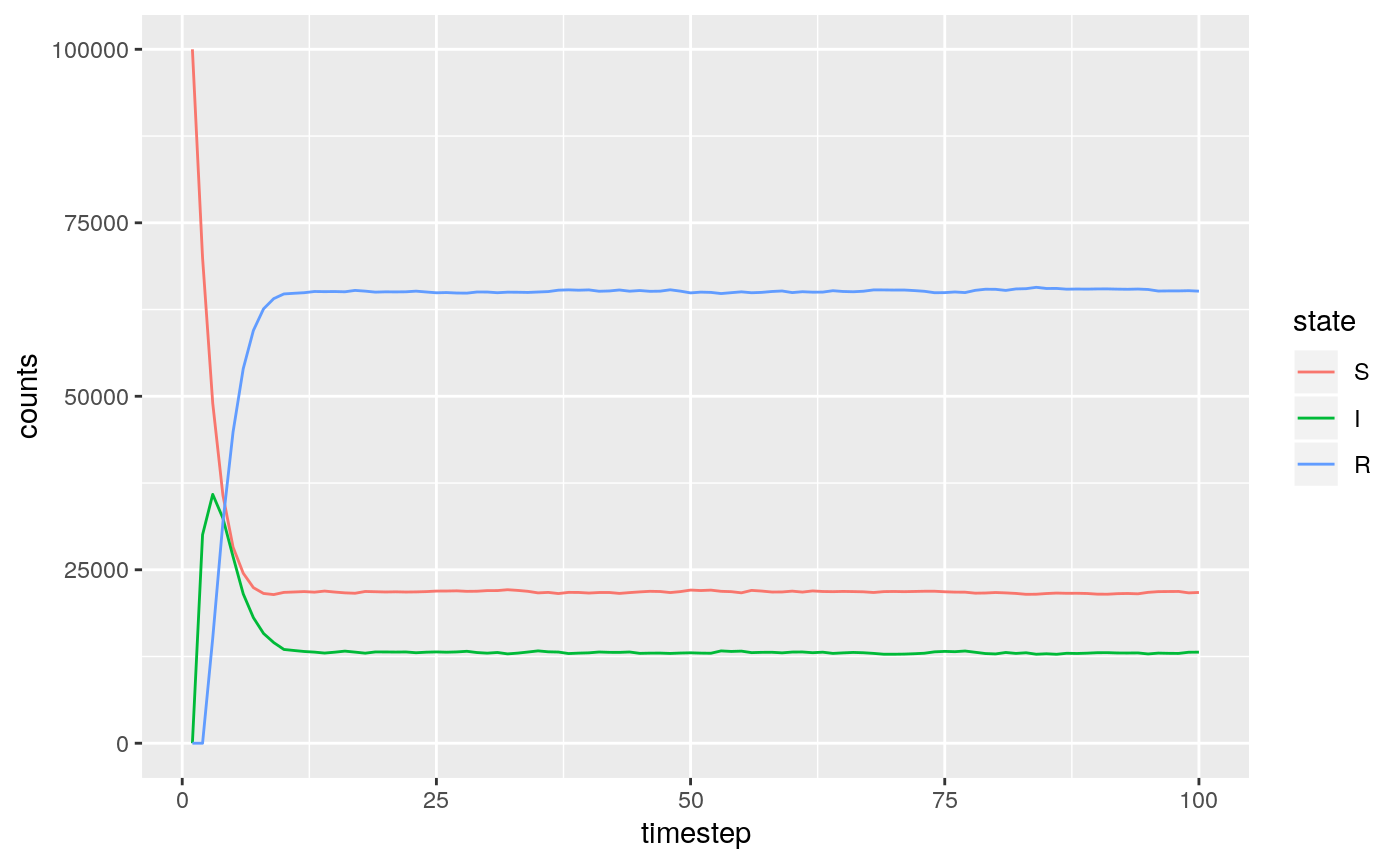
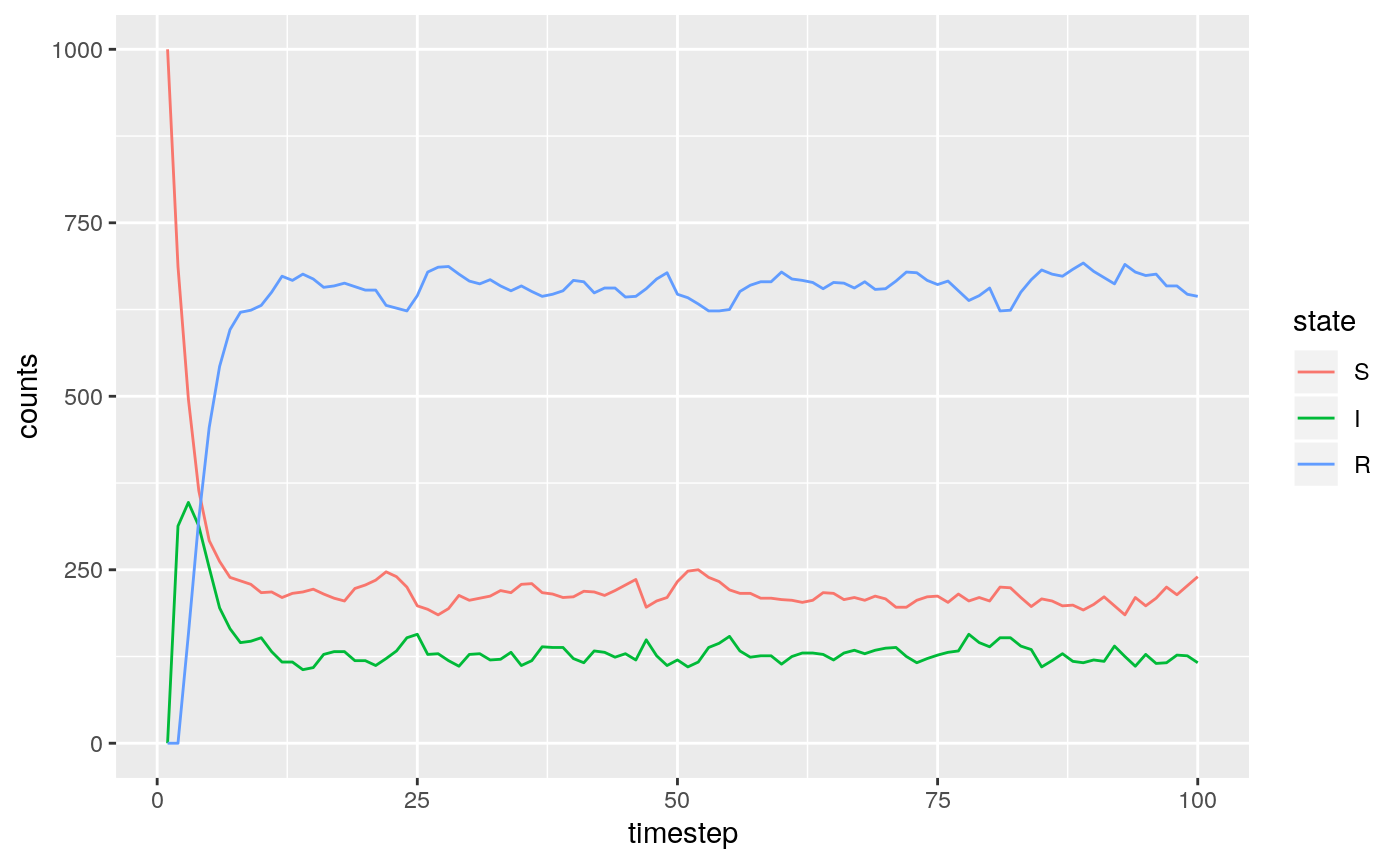
Update build to work with new documentation
* Hide messages on installation in vignette
* Update dockerfiles
* Remove man building from travis
* Update Rbuildignore

diff --git a/docs/articles/modelling.html b/docs/articles/modelling.html
@@ -83,11 +83,6 @@
     
     
 <div class="sourceCode"><pre class="sourceCode r"><code class="sourceCode r"><span class="kw"><a href="https://rdrr.io/r/base/library.html">library</a></span>(individual)
-<span class="co">#&gt; </span>
-<span class="co">#&gt; Attaching package: 'individual'</span>
-<span class="co">#&gt; The following object is masked from 'package:stats':</span>
-<span class="co">#&gt; </span>
-<span class="co">#&gt;     simulate</span>
 <span class="kw"><a href="https://rdrr.io/r/base/library.html">library</a></span>(ggplot2)</code></pre></div>
 <div id="creating-an-epidemiological-models" class="section level1">
 <h1 class="hasAnchor">
@@ -102,7 +97,7 @@
 <div id="defining-the-processes" class="section level3">
 <h3 class="hasAnchor">
 <a href="#defining-the-processes" class="anchor"></a>Defining the processes</h3>
-<div class="sourceCode"><pre class="sourceCode r"><code class="sourceCode r">population &lt;-<span class="st"> </span><span class="dv">1</span> *<span class="st"> </span><span class="dv">100</span> *<span class="st"> </span><span class="dv">1000</span>
+<div class="sourceCode"><pre class="sourceCode r"><code class="sourceCode r">population &lt;-<span class="st"> </span><span class="dv">1000</span>
 S &lt;-<span class="st"> </span>State$<span class="kw">new</span>(<span class="st">'S'</span>, population)
 I &lt;-<span class="st"> </span>State$<span class="kw">new</span>(<span class="st">'I'</span>, <span class="dv">0</span>)
 R &lt;-<span class="st"> </span>State$<span class="kw">new</span>(<span class="st">'R'</span>, <span class="dv">0</span>)
@@ -138,7 +133,7 @@ processes &lt;-<span class="st"> </span><span class="kw"><a href="https://rdrr.i
 )</code></pre></div>
 <p>Running the simulation</p>
 <p>To see the model output, you simply run simulate. It will return a <a href="'/reference/Simulation.html'">Simulation</a> object, which you can analyse however you want.</p>
-<div class="sourceCode"><pre class="sourceCode r"><code class="sourceCode r">simulation &lt;-<span class="st"> </span><span class="kw"><a href="../reference/simulate.html">simulate</a></span>(human, processes, <span class="dv">100</span>)
+<div class="sourceCode"><pre class="sourceCode r"><code class="sourceCode r">simulation &lt;-<span class="st"> </span><span class="kw"><a href="https://rdrr.io/pkg/individual/man/simulate.html">simulate</a></span>(human, processes, <span class="dv">100</span>)
 rendered &lt;-<span class="st"> </span>simulation$<span class="kw">render</span>(human)
 
 plot_states &lt;-<span class="st"> </span>function(output) {
@@ -224,7 +219,7 @@ processes_with_immunity &lt;-<span class="st"> </span><span class="kw"><a href="
 <li>We have used the parameters, object to specify the immunity level to set. This can be specified when we decide to run the simulation.</li>
 </ol>
 <p>You can see how this affects our outputs by re-simulating the model.</p>
-<div class="sourceCode"><pre class="sourceCode r"><code class="sourceCode r">rendered &lt;-<span class="st"> </span><span class="kw"><a href="../reference/simulate.html">simulate</a></span>(
+<div class="sourceCode"><pre class="sourceCode r"><code class="sourceCode r">rendered &lt;-<span class="st"> </span><span class="kw"><a href="https://rdrr.io/pkg/individual/man/simulate.html">simulate</a></span>(
   human,
   processes_with_immunity,
   <span class="dv">100</span>,

diff --git a/docs/reference/Variable.html b/docs/reference/Variable.html
@@ -144,12 +144,14 @@ Represents a variable for an individual in our simulation</p>
 </ul>
 <p><hr>
 <a id="method-new"></a></p><h3>Method <code>new()</code></h3>
-<p>Create a new State</p><h3>Usage</h3>
+<p>Create a new Variable. Variables represent a numerical value for each
+individual. Variables are updated during a simulation when a process
+returns a VariableUpdate object.</p><h3>Usage</h3>
 <p><div class="r"></p><pre>Variable$new(name, initialiser)</pre><p></div></p>
 
 <h3>Arguments</h3>
 <p><div class="arguments"></p><dl class='dl-horizontal'>
-<dt><code>name</code></dt><dd><p>is a unique idetifier which is used in the output</p></dd>
+<dt><code>name</code></dt><dd><p>is a unique identifier which is used in the output</p></dd>
 
 <dt><code>initialiser</code></dt><dd><p>a function used to initialise the variable at the start
 of the simulation. The initialiser function takes the population size as

diff --git a/docs/reference/Constant.html b/docs/reference/Constant.html
@@ -144,12 +144,14 @@ Represents a constant for an individual in our simulation</p>
 </ul>
 <p><hr>
 <a id="method-new"></a></p><h3>Method <code>new()</code></h3>
-<p>Create a new State</p><h3>Usage</h3>
+<p>Create a new Constant. Constant represent a numerical value for each
+individual. Constants differ from variables in that they cannot be updated
+in the simulation.</p><h3>Usage</h3>
 <p><div class="r"></p><pre>Constant$new(name, initialiser)</pre><p></div></p>
 
 <h3>Arguments</h3>
 <p><div class="arguments"></p><dl class='dl-horizontal'>
-<dt><code>name</code></dt><dd><p>is a unique idetifier which is used in the output</p></dd>
+<dt><code>name</code></dt><dd><p>is a unique identifier which is used in the output</p></dd>
 
 <dt><code>initialiser</code></dt><dd><p>a function used to initialise the constant at the start
 of the simulation. The initialiser function takes the population size as

diff --git a/docs/reference/simulate.html b/docs/reference/simulate.html
@@ -121,7 +121,7 @@
     <p>Main simulation loop</p>
     </div>
 
-    <pre class="usage"><span class='fu'>simulate</span>(<span class='no'>individuals</span>, <span class='no'>processes</span>, <span class='no'>end_timestep</span>, <span class='kw'>parameters</span> <span class='kw'>=</span> <span class='fu'><a href='https://rdrr.io/r/base/list.html'>list</a></span>())</pre>
+    <pre class="usage"><span class='fu'><a href='https://rdrr.io/r/stats/simulate.html'>simulate</a></span>(<span class='no'>individuals</span>, <span class='no'>processes</span>, <span class='no'>end_timestep</span>, <span class='kw'>parameters</span> <span class='kw'>=</span> <span class='fu'><a href='https://rdrr.io/r/base/list.html'>list</a></span>())</pre>
 
     <h2 class="hasAnchor" id="arguments"><a class="anchor" href="#arguments"></a>Arguments</h2>
     <table class="ref-arguments">

diff --git a/docs/reference/StateUpdate.html b/docs/reference/StateUpdate.html
@@ -145,15 +145,15 @@ Describes a state update</p>
 <p><hr>
 <a id="method-new"></a></p><h3>Method <code>new()</code></h3>
 <p>Create a new StateUpdate descriptor</p><h3>Usage</h3>
-<p><div class="r"></p><pre>StateUpdate$new(individual, index, state)</pre><p></div></p>
+<p><div class="r"></p><pre>StateUpdate$new(individual, state, index)</pre><p></div></p>
 
 <h3>Arguments</h3>
 <p><div class="arguments"></p><dl class='dl-horizontal'>
 <dt><code>individual</code></dt><dd><p>is the type of individual to update</p></dd>
 
-<dt><code>index</code></dt><dd><p>is the index at which to apply the change</p></dd>
-
 <dt><code>state</code></dt><dd><p>is the destination state of the update</p></dd>
+
+<dt><code>index</code></dt><dd><p>is the index at which to apply the change</p></dd>
 
 </dl><p></div></p>
 <p><hr>
